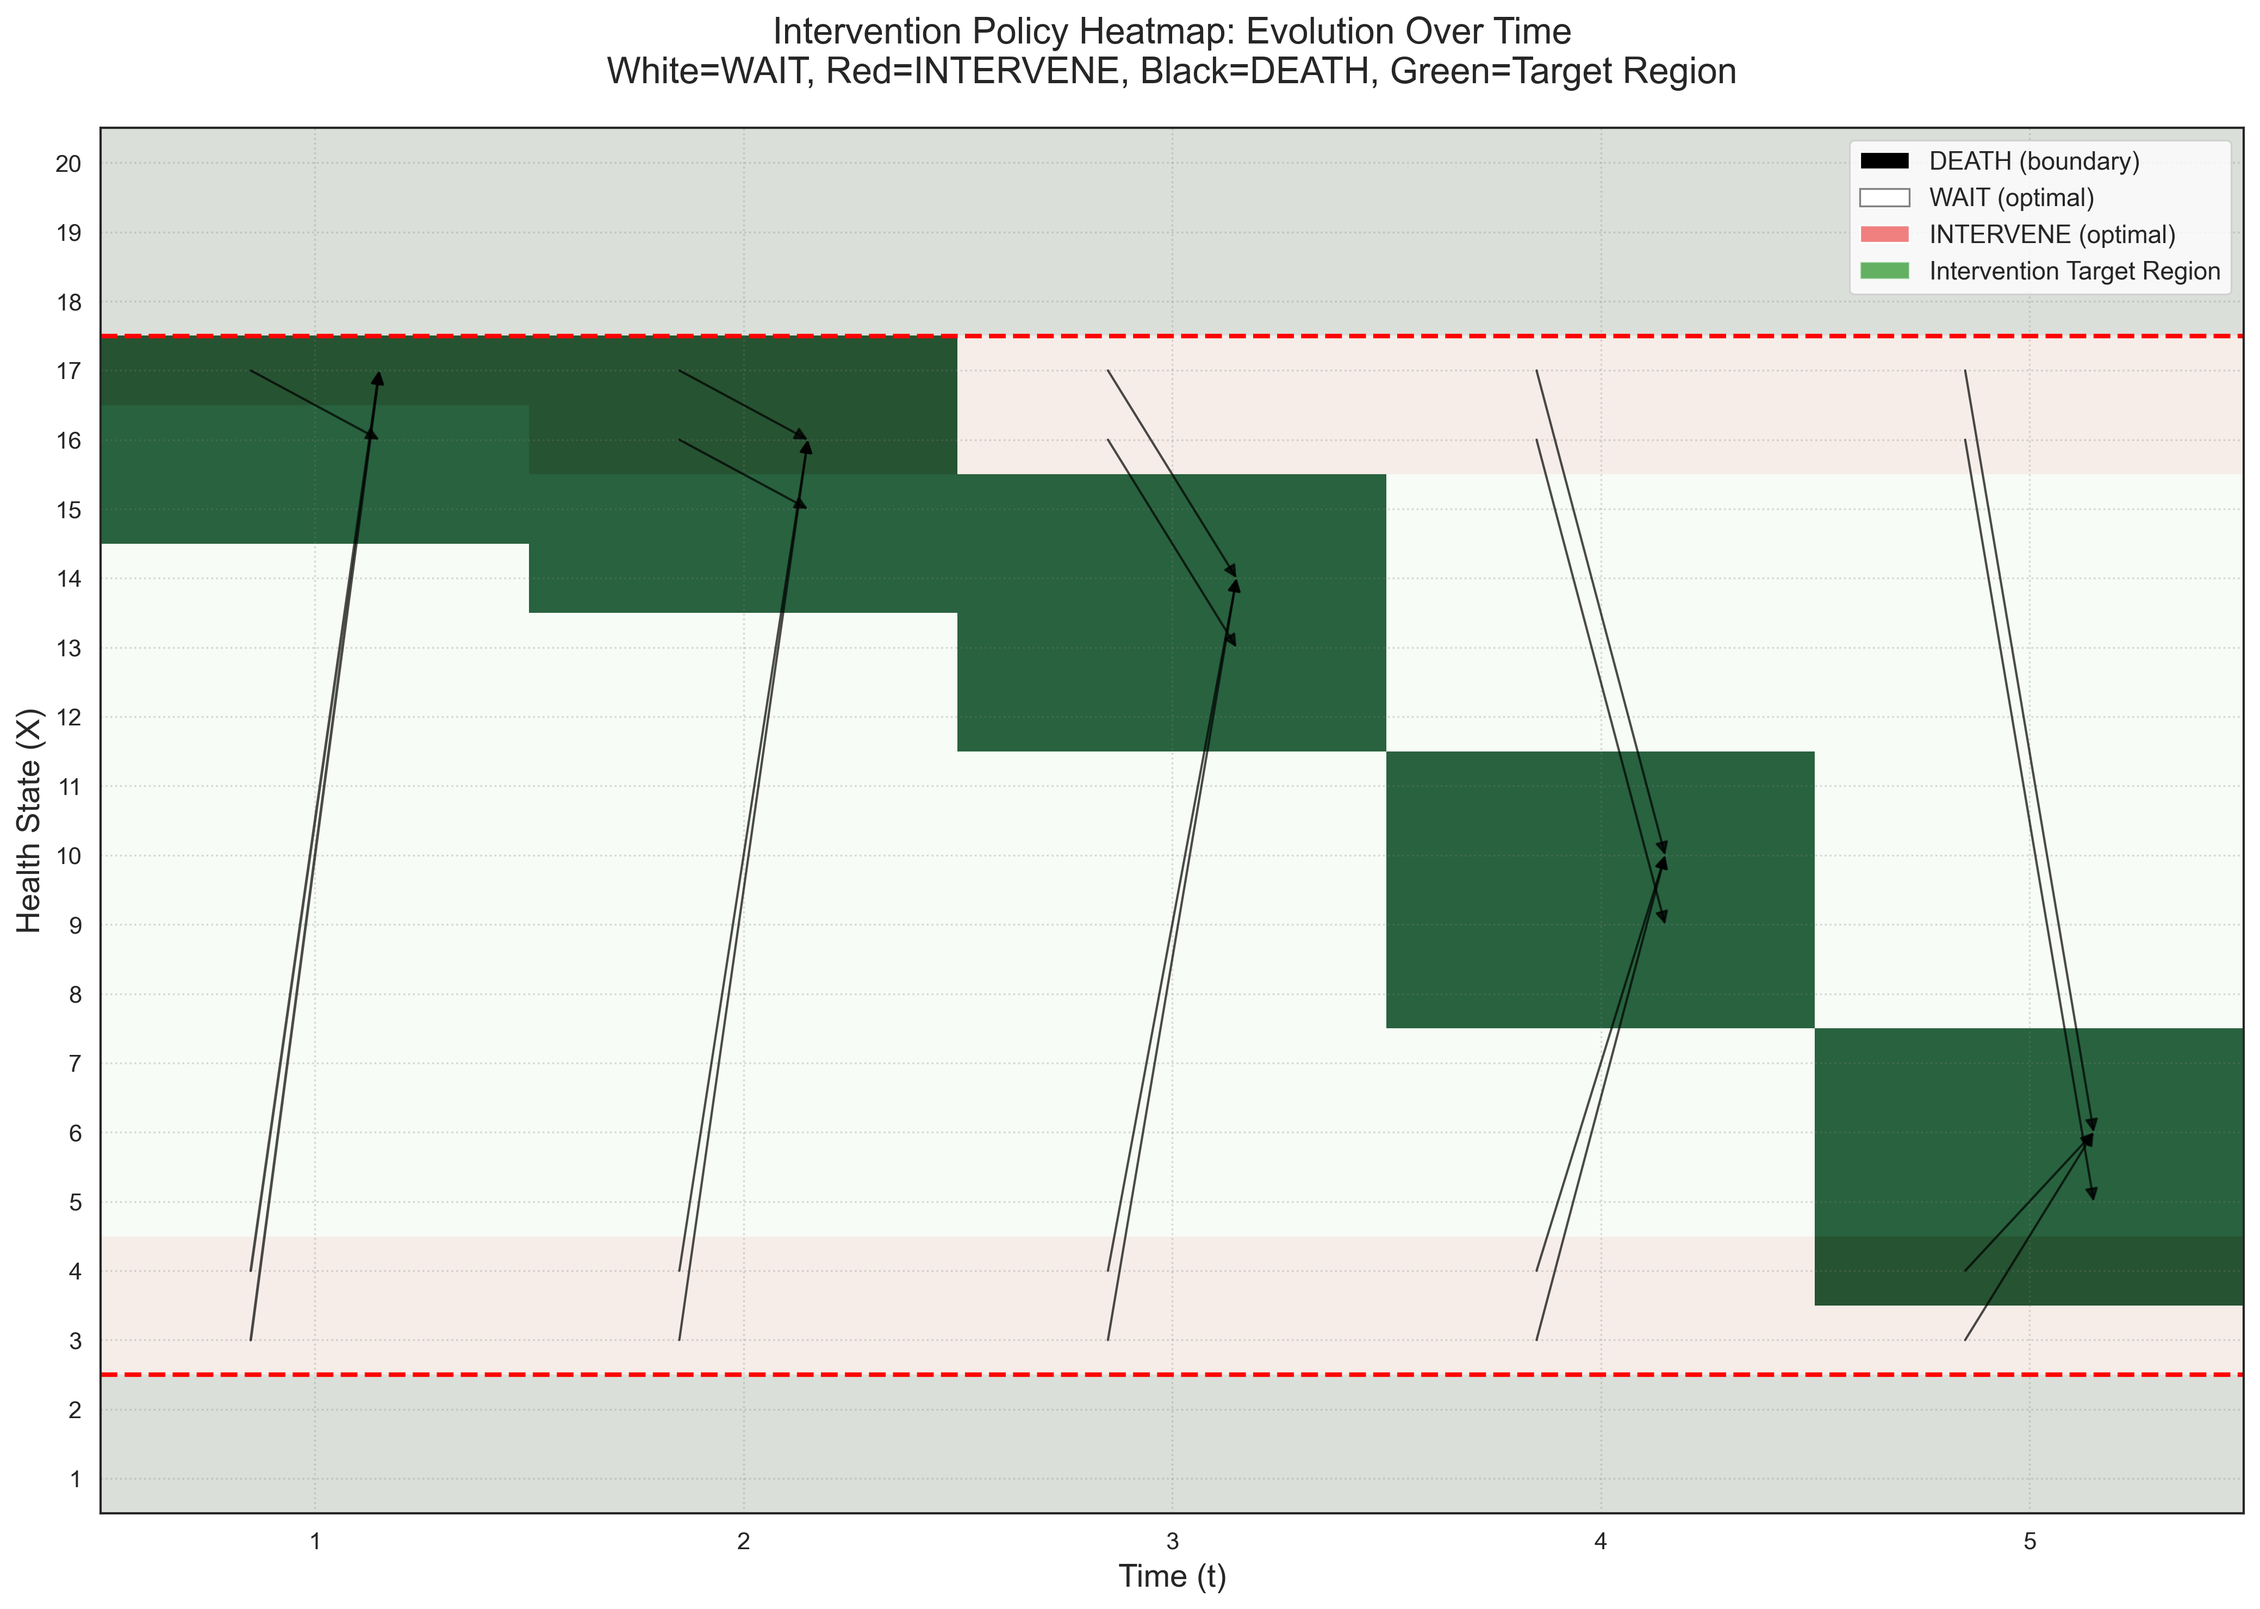
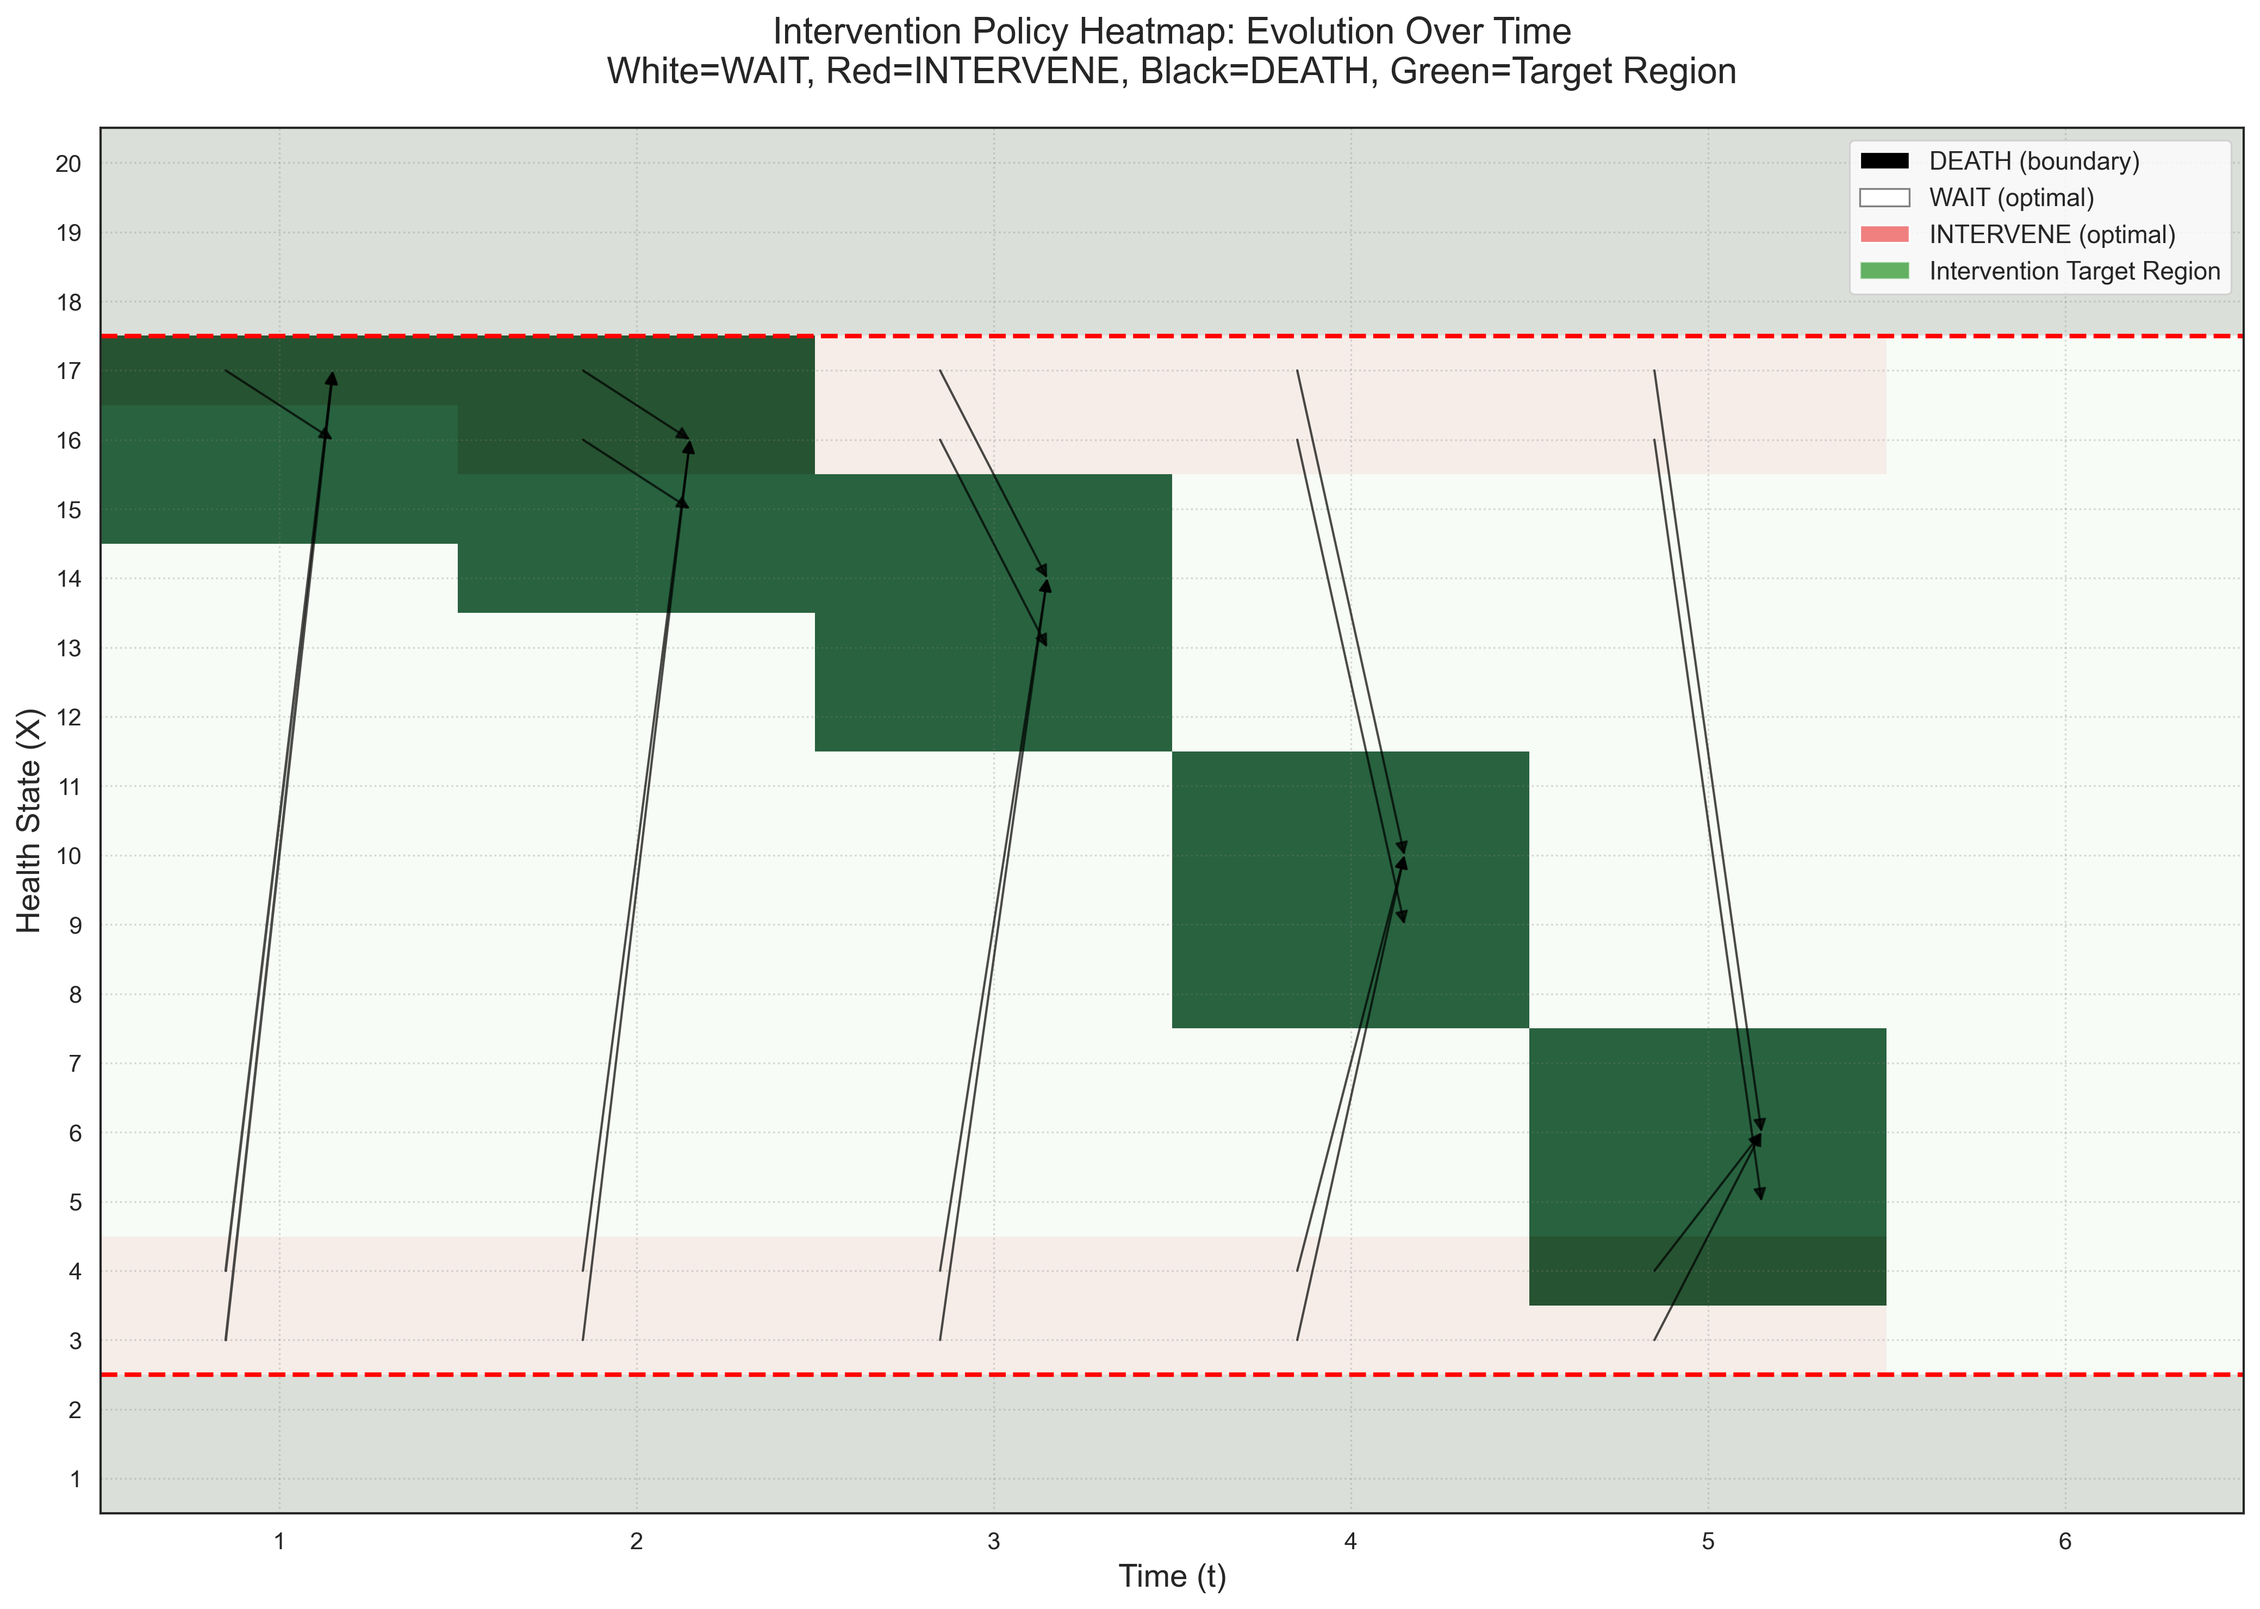
added time t = 6

diff --git a/PhaseBOptimalStoppingProb/Optimal Stopping Code/OptimalStoppingProblem.py b/PhaseBOptimalStoppingProb/Optimal Stopping Code/OptimalStoppingProblem.py
@@ -481,7 +481,7 @@ class CausalOptimalStopping:
             self.solve_standard_optimal_stopping()
         
         # Create grid for heatmap
-        times = np.arange(1, self.T)
+        times = np.arange(1, self.T + 1)
         states = np.arange(self.X_min, self.X_max + 1)
         
         # Policy matrix: average policy across all U values
